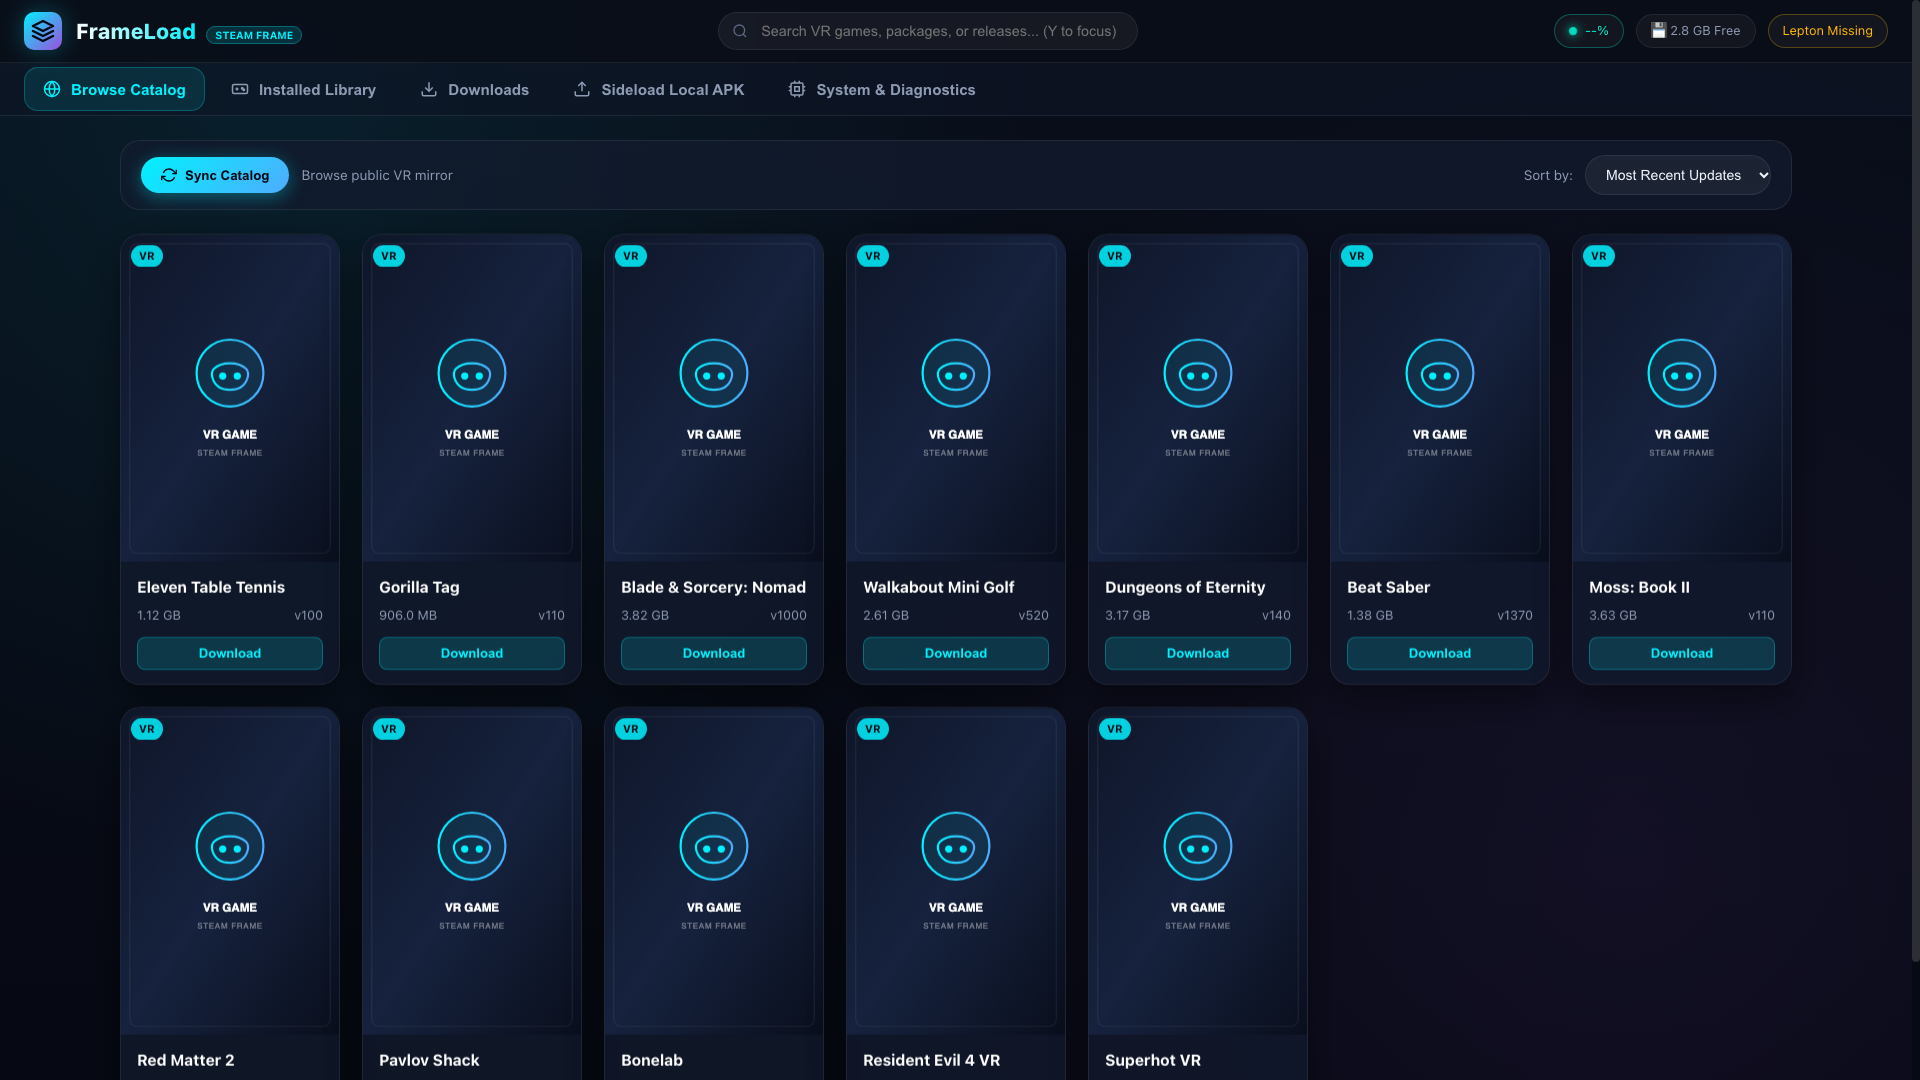
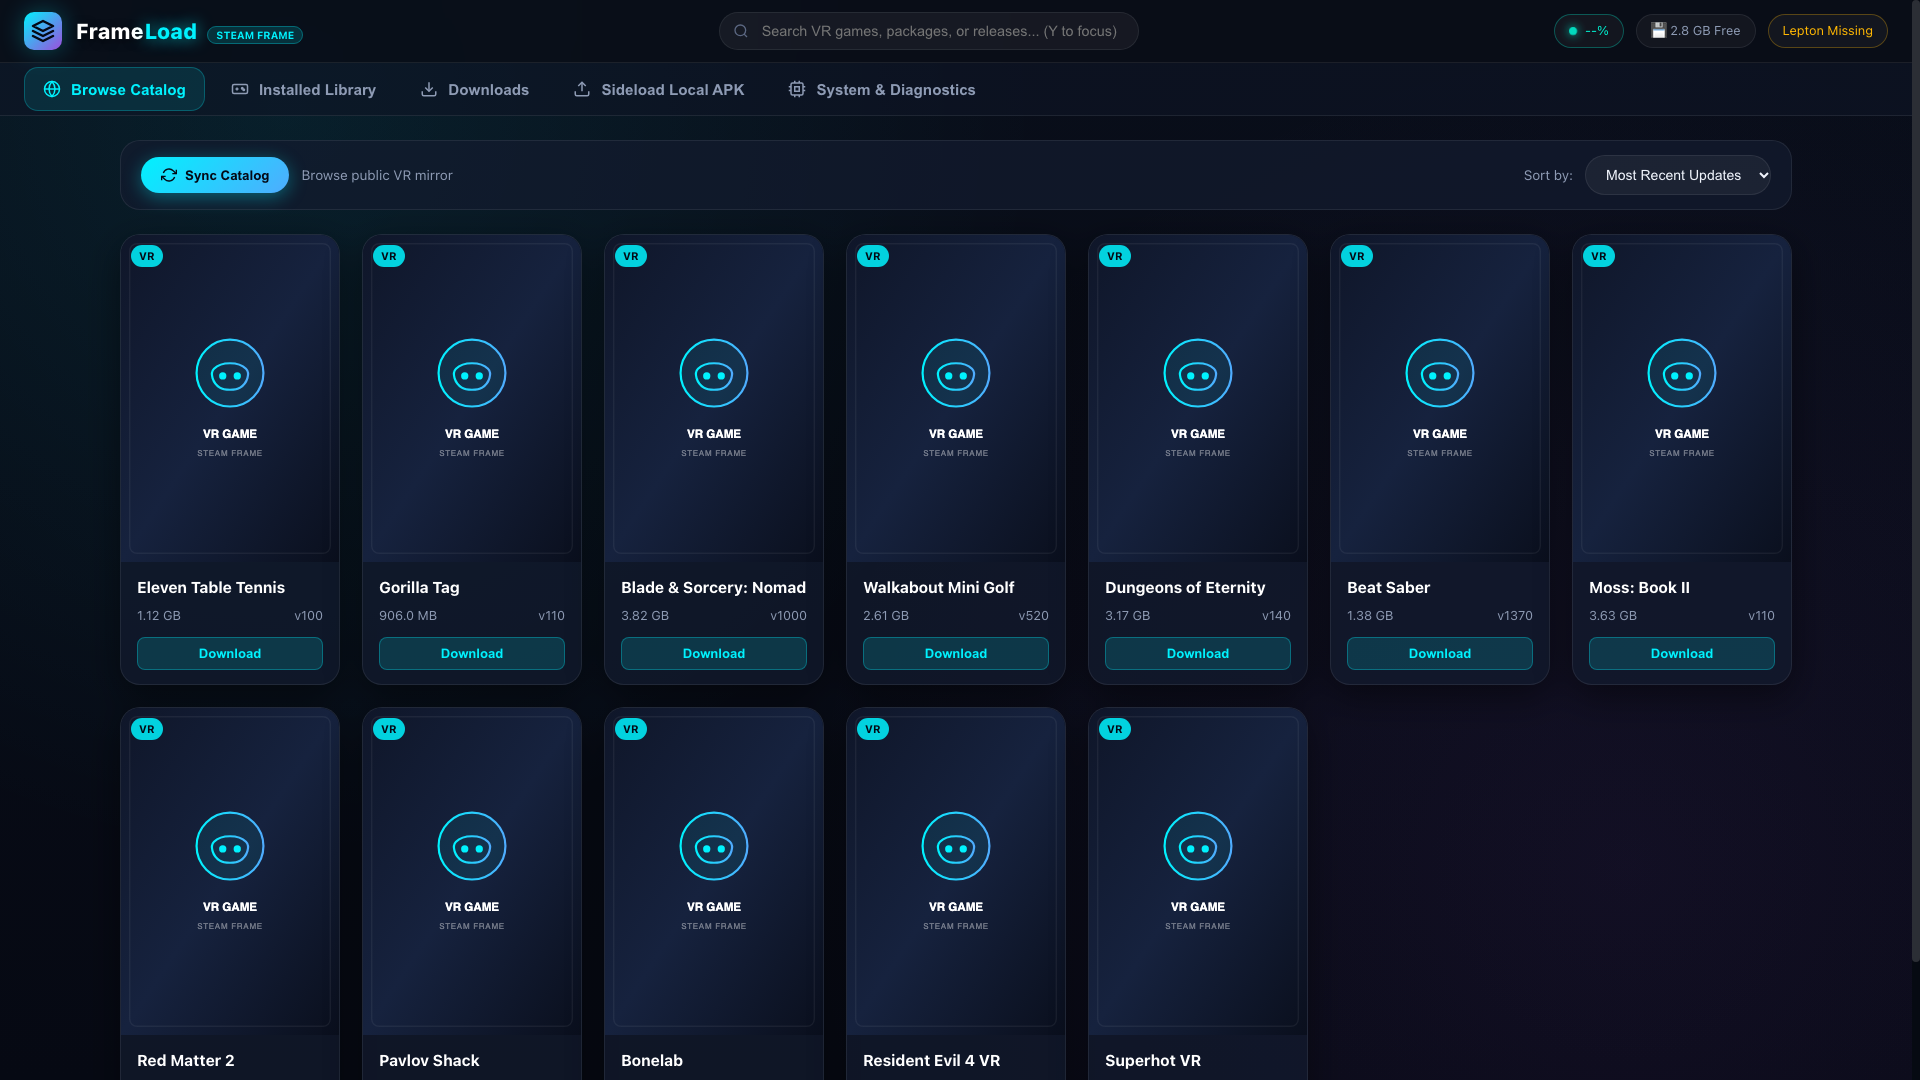
Fix header brand title fade-out and re-render high-res screenshots

diff --git a/frameload/web/static/css/style.css b/frameload/web/static/css/style.css
@@ -126,9 +126,19 @@ body {
   font-size: 1.35rem;
   font-weight: 800;
   letter-spacing: 0.5px;
-  background: linear-gradient(90deg, #ffffff, #00f2fe);
-  -webkit-background-clip: text;
-  -webkit-text-fill-color: transparent;
+  display: inline-flex;
+  align-items: center;
+}
+
+.brand-title .title-frame {
+  color: #ffffff;
+  text-shadow: 0 2px 10px rgba(0, 0, 0, 0.6);
+}
+
+.brand-title .title-load {
+  color: var(--accent-cyan);
+  text-shadow: 0 0 16px rgba(0, 242, 254, 0.7);
+  margin-left: 1px;
 }
 
 .brand-badge {

diff --git a/frameload/web/templates/index.html b/frameload/web/templates/index.html
@@ -19,7 +19,7 @@
         </svg>
       </div>
       <div>
-        <span class="brand-title">FrameLoad</span>
+        <span class="brand-title"><span class="title-frame">Frame</span><span class="title-load">Load</span></span>
         <span class="brand-badge">Steam Frame</span>
       </div>
     </div>
